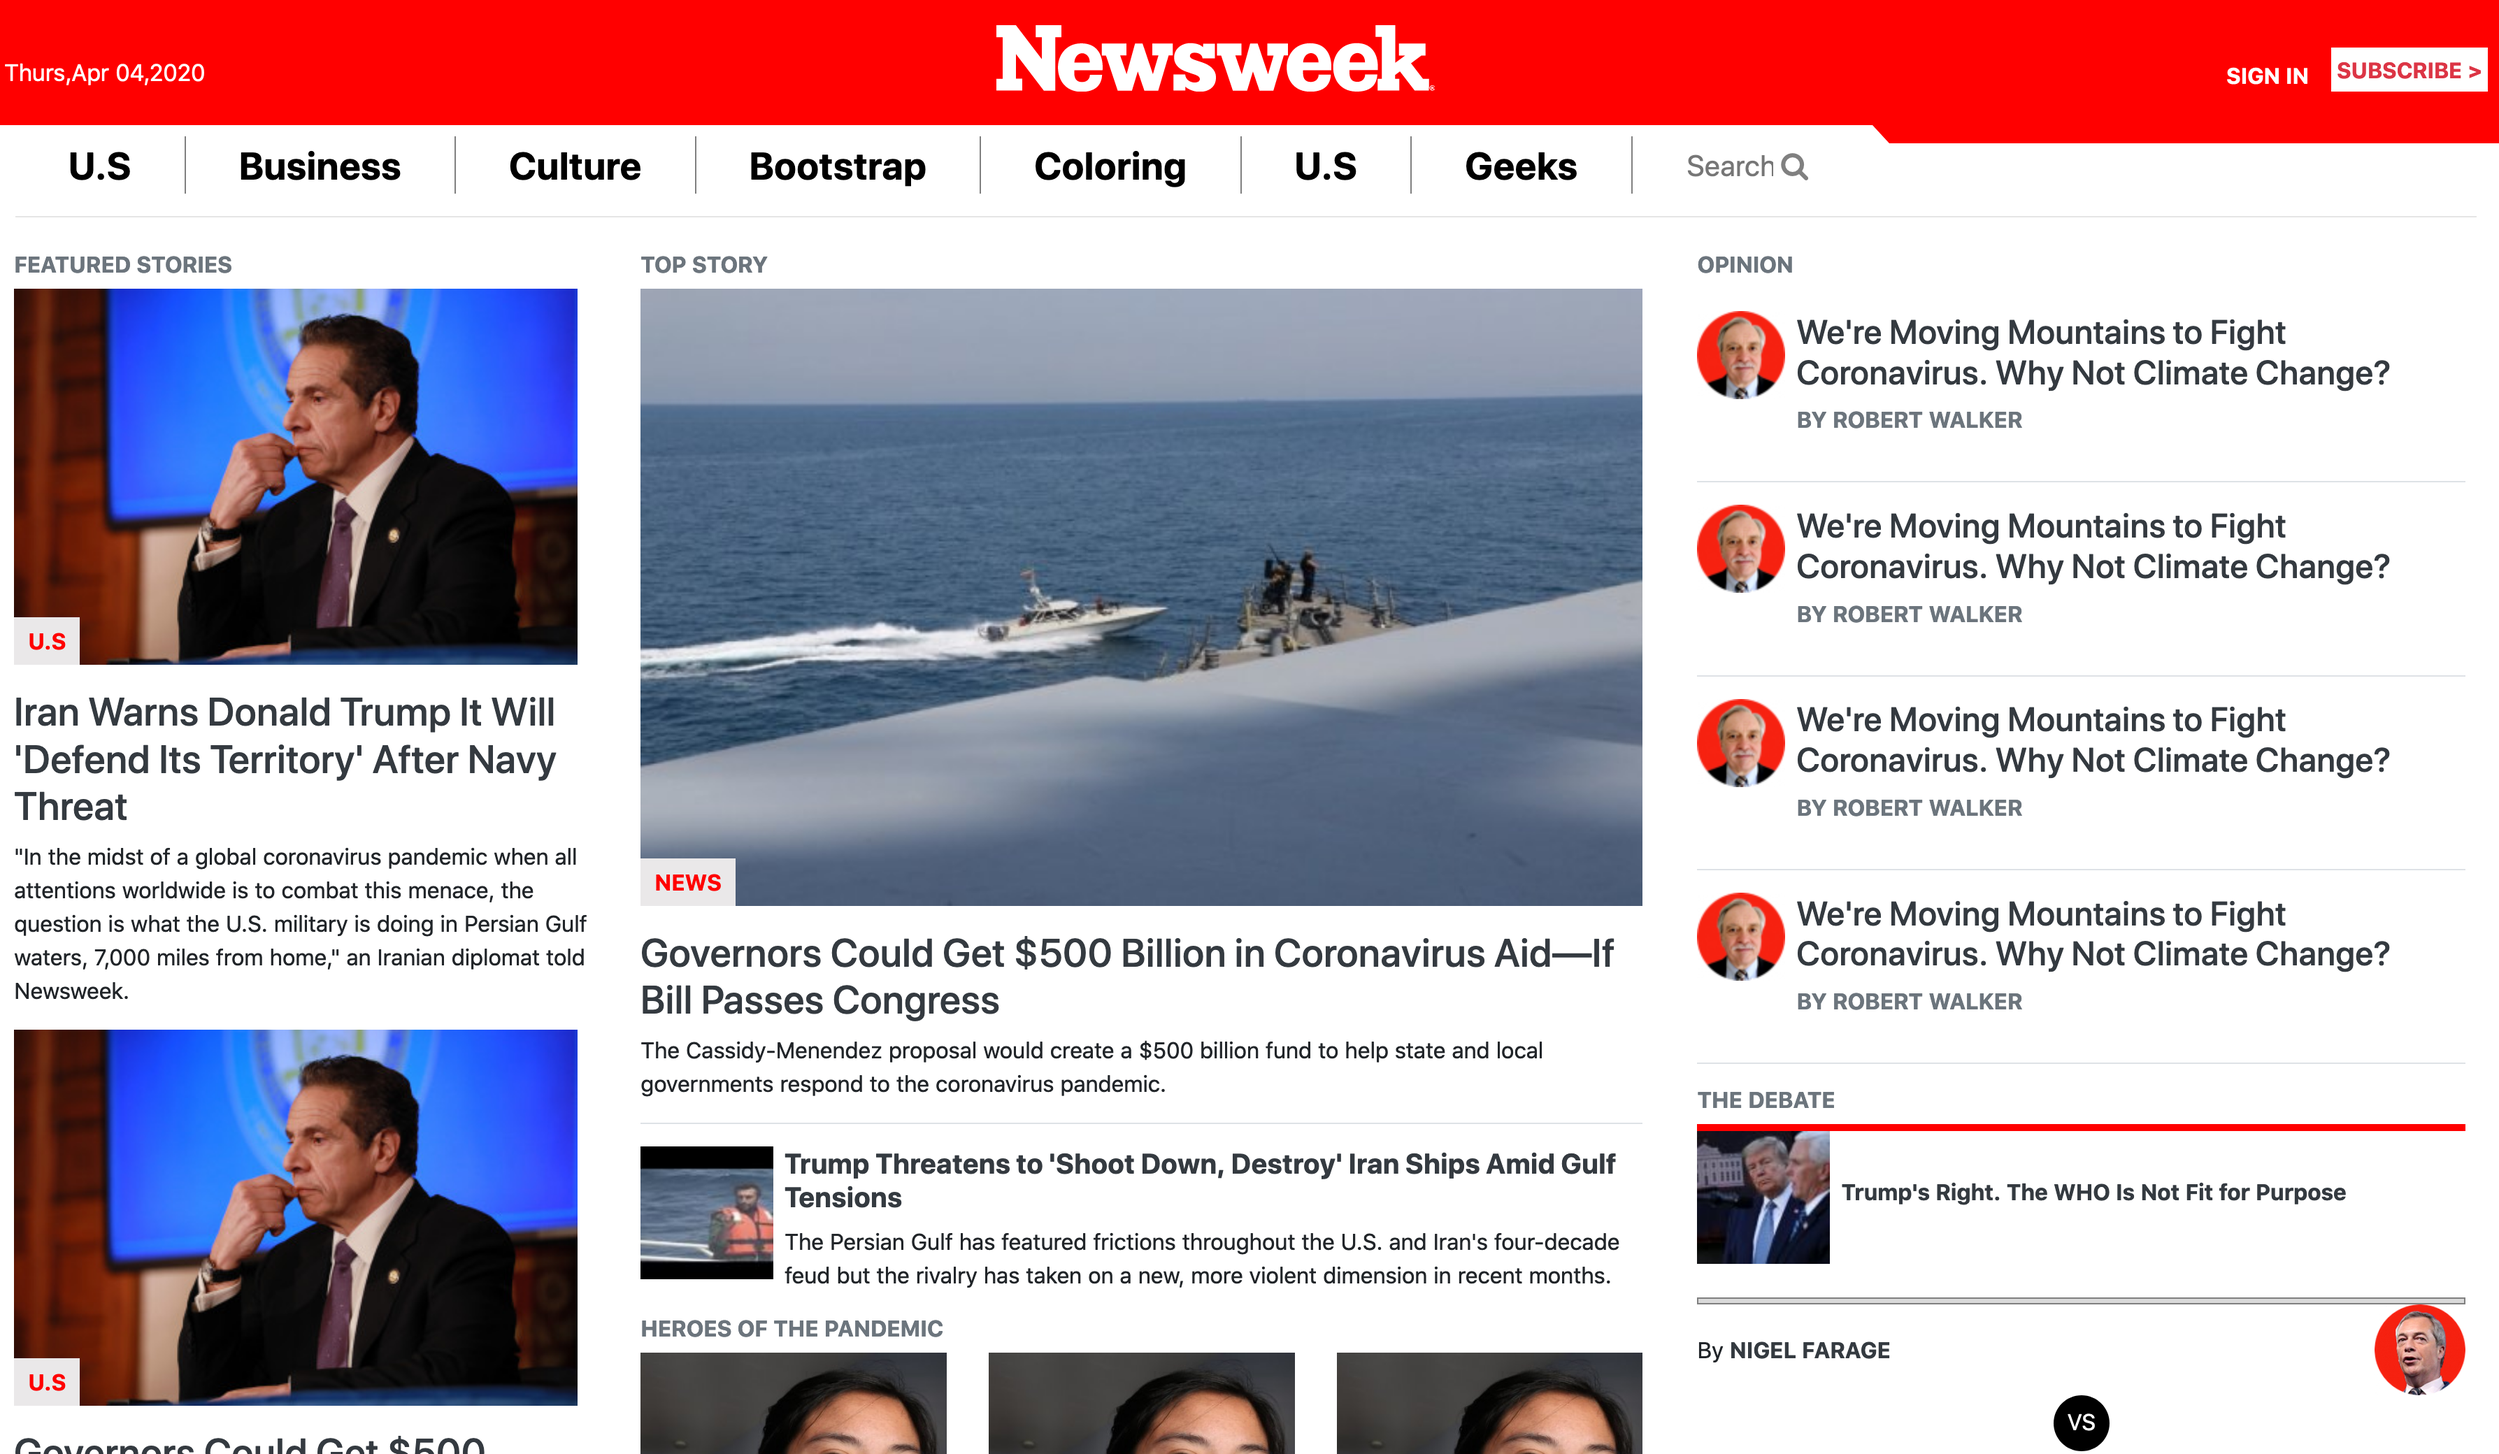
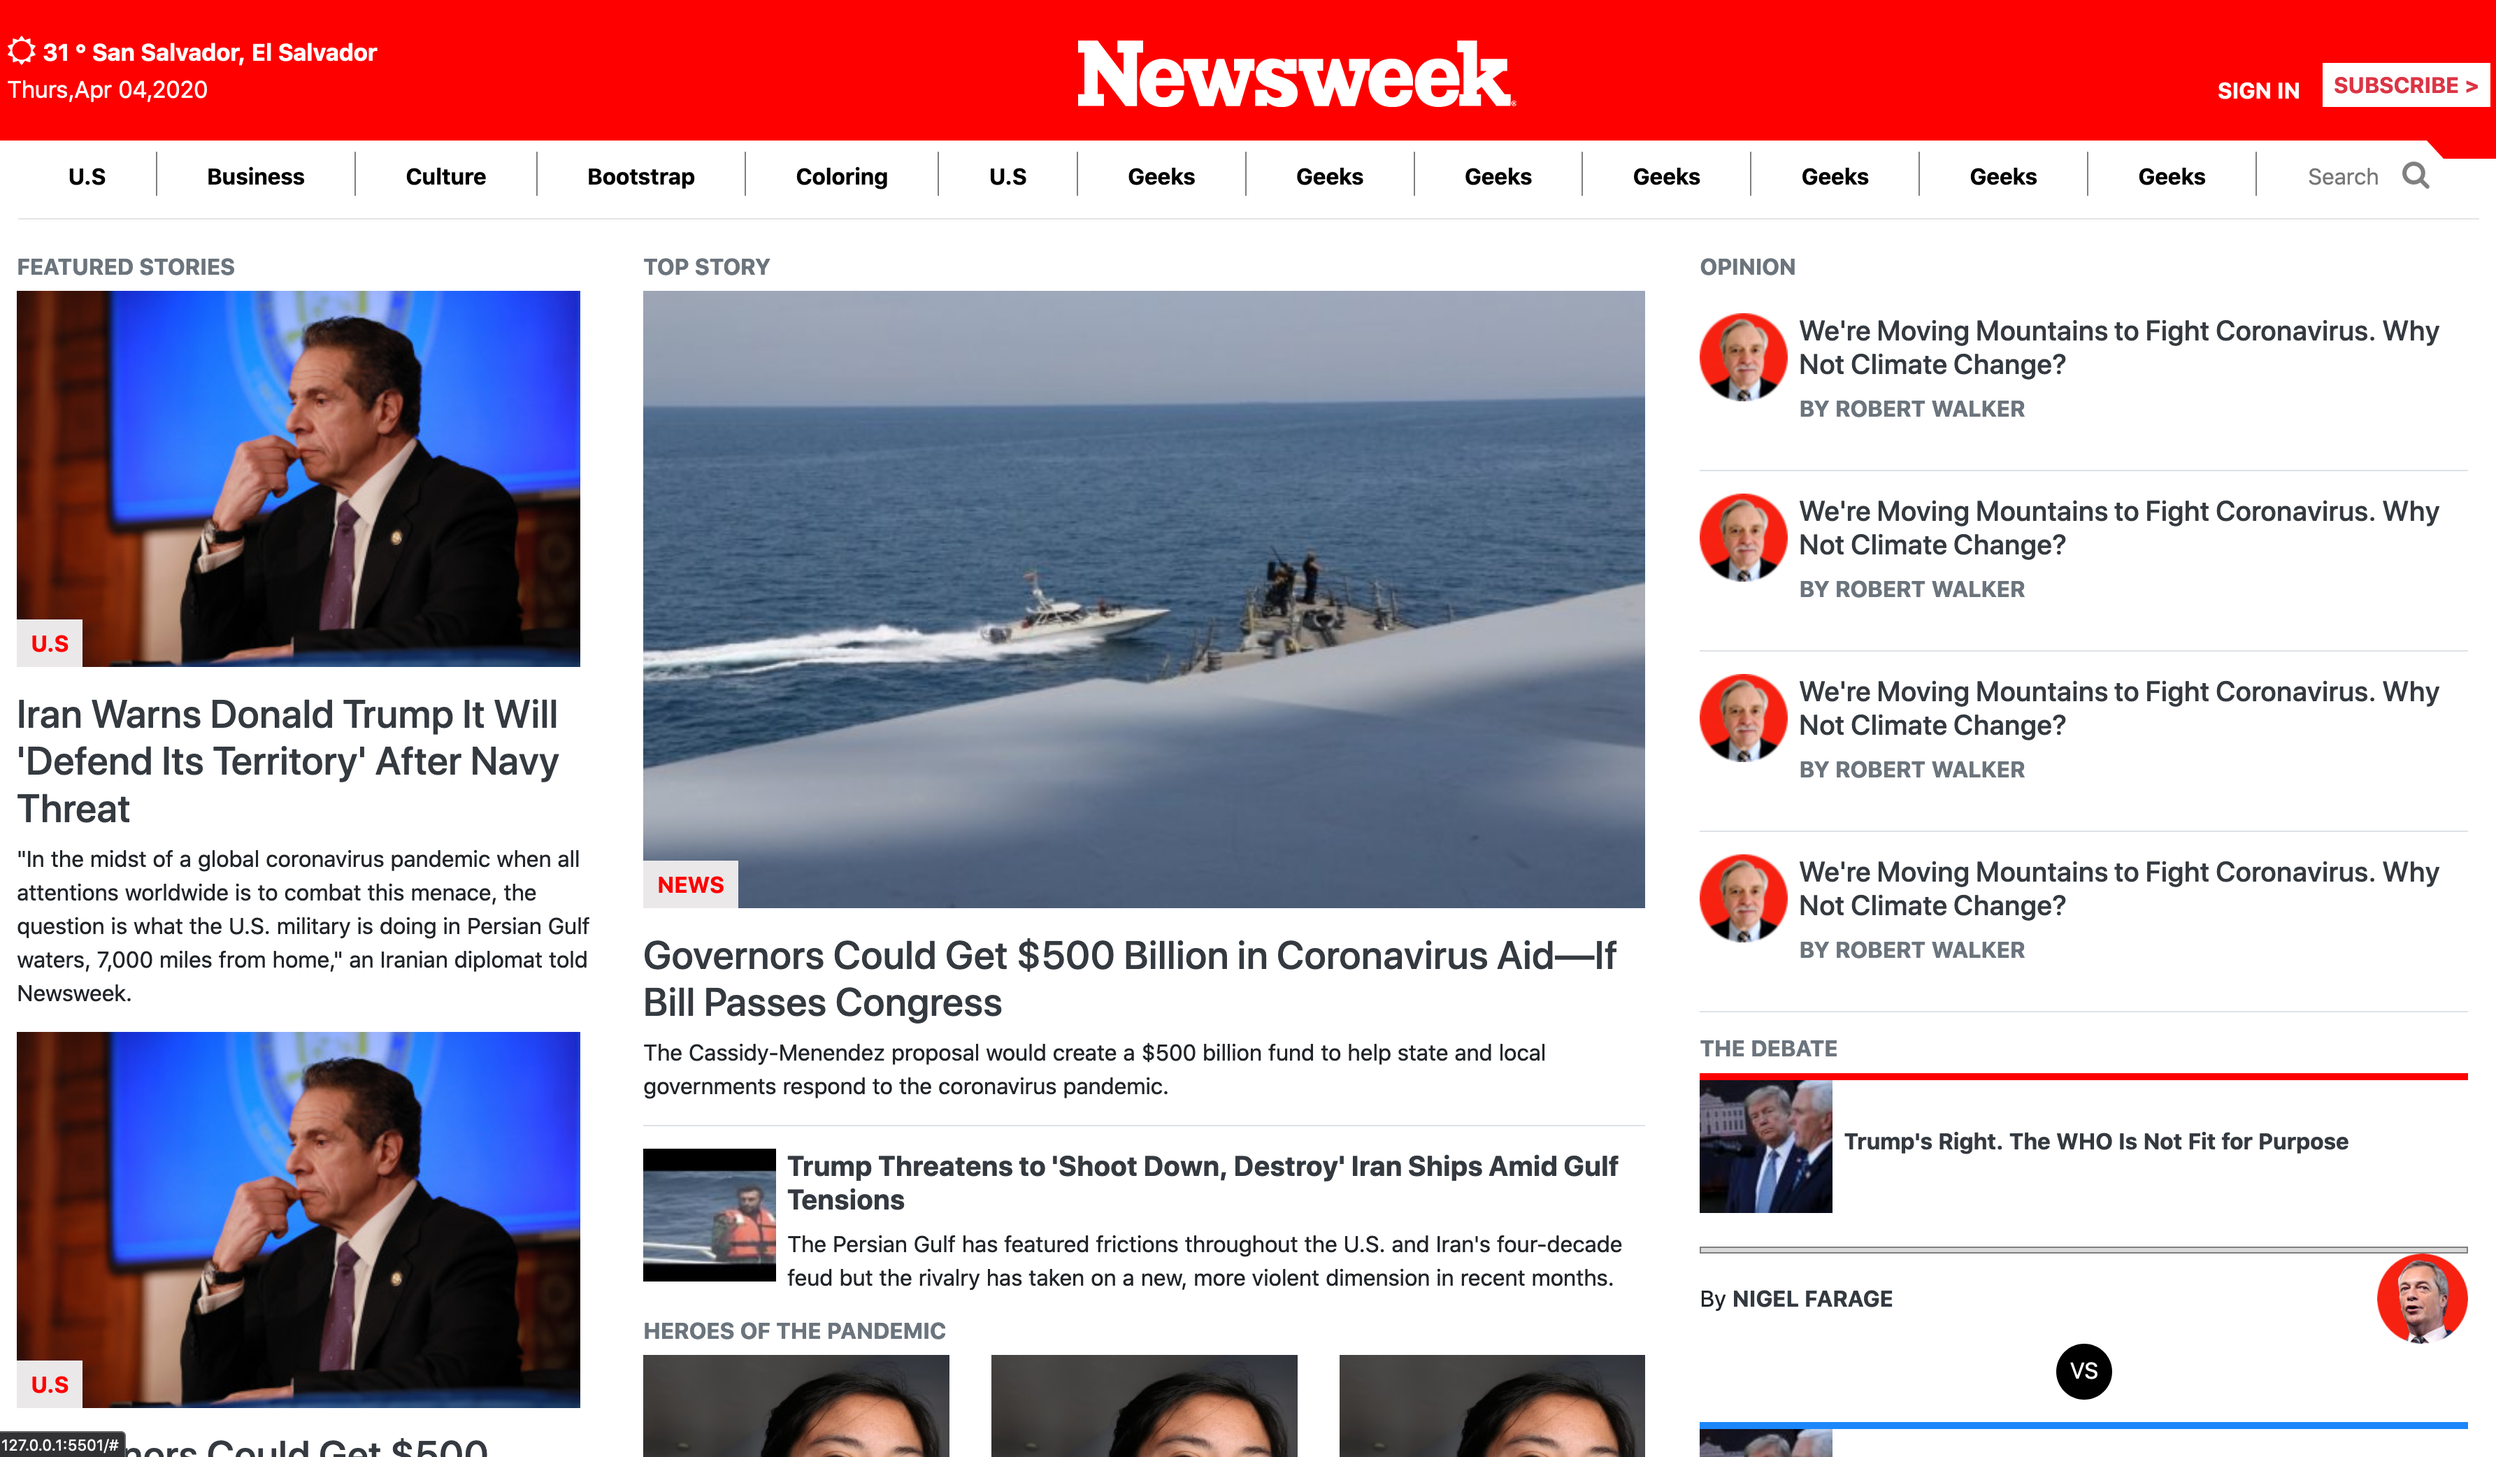
TSE observations

diff --git a/index.html b/index.html
@@ -22,23 +22,34 @@
     <header class="container-fluid px-0 py-0  ">
         <div class=" container-fluid px-2 ">
             <div class="text-white d-flex justify-content-between py-4 align-items-end  ">
-                <div class="d-none d-lg-block">
+                <div class="d-none d-lg-flex flex-column justify-content-around">
+
+                    <div>
+                        <i class="fa fa-sun-o text-white" aria-hidden="true"></i>
+                        <small> <strong>31 °  San Salvador, El Salvador</strong> </small>
+                    </div>
                     <small> Thurs,Apr 04,2020</small>
+
                 </div>
 
-                <div class="fixed-img">
-                    <svg version="1.1" xmlns="http://www.w3.org/2000/svg" xmlns:xlink="http://www.w3.org/1999/xlink" x="0px" y="0px" viewBox="0 0 395.6 60" xml:space="preserve">
+                <div class="d-flex">
+                    <svg class="fixed-img" version="1.1" xmlns="http://www.w3.org/2000/svg" xmlns:xlink="http://www.w3.org/1999/xlink" x="0px" y="0px" viewBox="0 0 395.6 60" xml:space="preserve">
                     <g>
                       <path d="M58.7,10.8h-5.6v48.3H42.8l-25.1-33v22.1h5.6v10.8H0V48.3h5.6V10.8H0V0h17.6L41,30.7V10.8h-5.6V0h23.2	L58.7,10.8L58.7,10.8z M95.8,38c0,0.9,0,1.8-0.1,2.7H70.3c-0.7,8.2,2.4,10.6,7.1,10.6c3.9,0,6.9-2.6,6.9-6.6h11	c-0.3,7.2-4,15.4-18.5,15.4c-14.5,0-21.3-10.5-21.3-22.1c0-10.5,7-21.6,21-21.6C89.9,16.3,95.8,25.6,95.8,38 M159,27.3h-3.7	l-9.4,31.8h-12.5l-5.9-17.4l-5.3,17.4h-12.8L98.8,27.4h-3.7V16.6h22.1v10.7h-5.6l5.8,16.9l7.6-27.6h6.8l9.3,27.6l5-16.9h-5.6V16.6	H159L159,27.3L159,27.3z M174.5,27.8c0,1.5,1.2,2.5,5.4,3.9l6,2c5.5,1.8,12.1,5.9,12.1,13.4c0,8.8-6.6,13-14.7,13	c-6.5,0-11.5-3.2-12.9-4.6V59h-10.8V44.4h10.6c0.3,4.8,4.6,7.3,8.5,7.3c3.2,0,4.7-1.4,4.7-3c0-2-1.2-3.1-6.5-4.8l-5.3-1.8	c-5.4-1.7-11.4-5.7-11.4-12.8c0-8.7,7.7-13.1,14.3-13.1c6.8,0,10.1,1.9,11.8,3.8l0.1-3.3H197v13.3h-11.2c-0.2-3.6-3.7-5.2-7.2-5.2	C175.8,24.8,174.5,26.1,174.5,27.8 M262.8,27.3h-3.7l-9.4,31.8h-12.5l-5.9-17.4L226,59.1h-12.8l-10.6-31.7h-3.7V16.6h22.1v10.7	h-5.6l5.8,16.9l7.6-27.6h6.8l9.3,27.7l5-16.9h-5.6V16.6h18.5V27.3z M302,37.9c0,0.9,0,1.8-0.1,2.7h-25.4	c-0.7,8.2,2.4,10.6,7.1,10.6c3.9,0,6.9-2.6,6.9-6.6h11c-0.3,7.2-4,15.4-18.5,15.4c-14.5,0-21.3-10.5-21.3-22.1	c0-10.5,7-21.6,21-21.6C296.1,16.2,302,25.5,302,37.9 M343.9,37.8c0,0.9,0,1.8-0.1,2.7h-25.4c-0.7,8.2,2.4,10.6,7.1,10.6	c3.9,0,6.9-2.6,6.9-6.6h11c-0.3,7.2-4,15.4-18.5,15.4c-14.5,0-21.3-10.5-21.3-22.1c0-10.5,7-21.6,21-21.6	C338,16.1,343.9,25.4,343.9,37.8 M389.9,59h-12.8l-13.3-17.3l-4.3,3.2v3.4h3.8V59h-19.6V48.3h3.7V10.6h-5.6V0h17.8v33.9l8.9-6.5	h-5.6V16.6h23.9v10.8h-3.7l-9.3,7l10.7,13.9h5.6L389.9,59L389.9,59z M395.6,56.6c0,0.5-0.1,0.9-0.4,1.2c-0.2,0.4-0.5,0.7-0.9,0.9	c-0.4,0.2-0.8,0.4-1.3,0.4c-0.5,0-0.9-0.1-1.2-0.4c-0.4-0.2-0.7-0.5-0.9-0.9c-0.2-0.4-0.4-0.8-0.4-1.2c0-0.5,0.1-0.9,0.4-1.2	c0.2-0.4,0.5-0.7,0.9-0.9c0.4-0.2,0.8-0.4,1.2-0.4c0.5,0,0.9,0.1,1.3,0.4c0.4,0.2,0.7,0.5,0.9,0.9	C395.5,55.8,395.6,56.2,395.6,56.6 M394.6,58c0.4-0.4,0.6-0.9,0.6-1.4c0-0.6-0.2-1-0.6-1.4s-0.9-0.6-1.4-0.6s-1,0.2-1.4,0.6	c-0.4,0.4-0.6,0.9-0.6,1.4c0,0.6,0.2,1,0.6,1.4c0.4,0.4,0.9,0.6,1.4,0.6S394.2,58.4,394.6,58 M393.6,56.8c0.1,0.1,0.2,0.1,0.2,0.1	c0.1,0.1,0.2,0.2,0.2,0.3c0,0,0.2,0.3,0.4,0.8h-0.8c-0.3-0.5-0.4-0.8-0.5-0.9c-0.1-0.1-0.2-0.2-0.3-0.2c0,0-0.1,0-0.1,0v1.1h-0.6	v-2.6h1.2c0.4,0,0.6,0.1,0.7,0.2c0.2,0.2,0.2,0.3,0.2,0.6c0,0.2-0.1,0.4-0.2,0.5C393.9,56.6,393.8,56.7,393.6,56.8 M393.5,56.3	c0.1-0.1,0.1-0.2,0.1-0.3s-0.1-0.2-0.1-0.3c-0.1-0.1-0.2-0.1-0.4-0.1h-0.3v0.7h0.3C393.3,56.4,393.4,56.4,393.5,56.3 M318.4,33.5	h13.9c0-6-3.9-8.4-6.8-8.4C322.1,25.2,318.6,27.9,318.4,33.5 M276.5,33.6h13.9c0-6-3.9-8.4-6.8-8.4C280.3,25.2,276.8,28,276.5,33.6 M70.3,33.7h13.9c0-6-3.9-8.4-6.8-8.4C74.1,25.3,70.6,28.1,70.3,33.7"></path>
                     </g>
                   </svg>
+
+                  <div class=" d-none d-sm-flex d-lg-none align-self-end ml-2 ">
+                    <i class="fa fa-sun-o text-white" aria-hidden="true"></i>
+                    <small> <strong>31 °  <span class="d-none d-md-inline"> San Salvador, El Salvador</span> </strong> </small>
+                </div>
                 </div>
 
-                <div class="auth d-flex align-items-end justify-content-end">
-                    <a href="#" class="text-white"> <b>SIGN IN</b></a>
-                    <a href="" class="bg-white text-center p-1 text-danger ml-3 "> <b>SUBSCRIBE ></b> </a>
+                <div class="auth d-flex align-items-end justify-content-end buttons ">
+                    <a href="#" class="text-white media-header"> <b>SIGN IN</b></a>
+                    <a href="" class="bg-white text-center p-0 py-md-1 px-md-2 text-danger ml-0 ml-sm-3 media-header  "> <b>SUBSCRIBE ></b> </a>
                     <a href="#">
-                        <i class="fa fa-bars fa-2x d-lg-none ml-3 " aria-hidden="true"></i>
+                        <i class="fa fa-bars fa-2x d-lg-none ml-0 ml-sm-3 text-white " aria-hidden="true"></i>
                     </a>
                 </div>
 
@@ -46,14 +57,20 @@
         </div>
 
         <nav class="navbar d-lg-block d-none bg-white opinionssection">
-            <ul class="px-0 w-75 ">
-                <li><a href="">U.S </a></li>
-                <li><a href="">Business </a></li>
-                <li><a href="">Culture </a></li>
-                <li><a href="">Bootstrap </a></li>
-                <li><a href="">Coloring </a></li>
-                <li><a href="">U.S </a></li>
-                <li><a href="">Geeks</a></li>
+            <ul class="px-0 w-100 ">
+                <li><a href="#">U.S </a></li>
+                <li><a href="#">Business </a></li>
+                <li><a href="#">Culture </a></li>
+                <li><a href="#">Bootstrap </a></li>
+                <li><a href="#">Coloring </a></li>
+                <li><a href="#">U.S </a></li>
+                <li><a href="#">Geeks</a></li>
+                <li><a href="#">Geeks</a></li>
+                <li><a href="#">Geeks</a></li>
+                <li><a href="#">Geeks</a></li>
+                <li><a href="#">Geeks</a></li>
+                <li><a href="#">Geeks</a></li>
+                <li><a href="#">Geeks</a></li>
                 <li class="align-self-center">
                     <div>
                         <input type="text" placeholder="Search">
@@ -572,10 +589,10 @@
                             <img src="https://d.newsweek.com/en/full/106462/robert-walker.png?w=63&h=63&f=32ea83f1b038fbd9ed3672a1db3ffff0" alt="rounded.png">
                         </a>
                         <div class="media-body pl-2">
-                            <h4> <a href="#" class="text-dark">
+                            <h5> <a href="#" class="text-dark">
                                 We're Moving Mountains to Fight Coronavirus. Why Not Climate Change?
                             </a>
-                            </h4>
+                            </h5>
                             <p class="text-muted"> <b>BY ROBERT WALKER</b> </p>
                         </div>
                     </div>
@@ -590,10 +607,10 @@
                             <img src="https://d.newsweek.com/en/full/106462/robert-walker.png?w=63&h=63&f=32ea83f1b038fbd9ed3672a1db3ffff0" alt="rounded.png">
                         </a>
                         <div class="media-body pl-2">
-                            <h4> <a href="#" class="text-dark">
+                            <h5> <a href="#" class="text-dark">
                                 We're Moving Mountains to Fight Coronavirus. Why Not Climate Change?
                             </a>
-                            </h4>
+                            </h5>
                             <p class="text-muted"> <b>BY ROBERT WALKER</b> </p>
                         </div>
                     </div>
@@ -609,10 +626,10 @@
                             <img src="https://d.newsweek.com/en/full/106462/robert-walker.png?w=63&h=63&f=32ea83f1b038fbd9ed3672a1db3ffff0" alt="rounded.png">
                         </a>
                         <div class="media-body pl-2">
-                            <h4> <a href="#" class="text-dark">
+                            <h5> <a href="#" class="text-dark">
                                 We're Moving Mountains to Fight Coronavirus. Why Not Climate Change?
                             </a>
-                            </h4>
+                            </h5>
                             <p class="text-muted"> <b>BY ROBERT WALKER</b> </p>
                         </div>
                     </div>
@@ -627,11 +644,11 @@
                             <img src="https://d.newsweek.com/en/full/106462/robert-walker.png?w=63&h=63&f=32ea83f1b038fbd9ed3672a1db3ffff0" alt="rounded.png">
                         </a>
                         <div class="media-body pl-2">
-                            <h4>
+                            <h5>
                                 <a href="#" class="text-dark">
                                 We're Moving Mountains to Fight Coronavirus. Why Not Climate Change?
                                 </a>
-                            </h4>
+                            </h5>
                             <p class="text-muted"> <b>BY ROBERT WALKER</b> </p>
                         </div>
                     </div>

diff --git a/assets/stylesheet/index.css b/assets/stylesheet/index.css
@@ -17,13 +17,13 @@ nav ul {
 }
 
 nav ul li {
-  flex-grow: 1;
+    flex-grow:1;
   border-right: 1px solid gray;
   text-align: center;
 }
 
 nav ul a {
-  font-size: 1.7rem;
+  font-size: 1rem;
   font-weight: bold;
   color: #000;
 }
@@ -54,6 +54,7 @@ nav ul a:hover {
 input {
   width: 4rem;
   border: none;
+  font-size: 1rem;
 }
 
 i {
@@ -80,7 +81,7 @@ i {
   right: 0;
   content: "";
   display: block;
-  width: 25%;
+  width: 3%;
   background-color: #f72210;
   border-left: 0.75rem solid white;
   border-top: 0.8125rem solid red;
@@ -179,7 +180,7 @@ i {
 
 @media (max-width: 992px) {
   .fixed-img {
-    width: 5em;
+    width: 7em;
   }
 
   .cover-img {
@@ -191,6 +192,10 @@ i {
 @media (max-width: 768px) {
   .main-img {
     height: 30em;
+  }
+
+  .buttons a{
+      font-size: 0.8em;
   }
 
   .cover-img {

diff --git a/README.md b/README.md
@@ -7,6 +7,8 @@
 ![screenshot](./assets/img/3.png)
 ![screenshot](./assets/img/4.png)
 ![screenshot](./assets/img/5.png)
+![screenshot](./assets/img/6.png)
+![screenshot](./assets/img/7.png)
 
 
 
